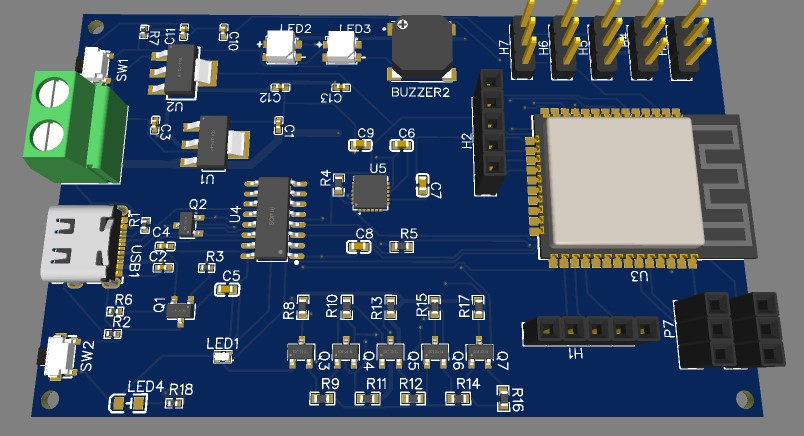
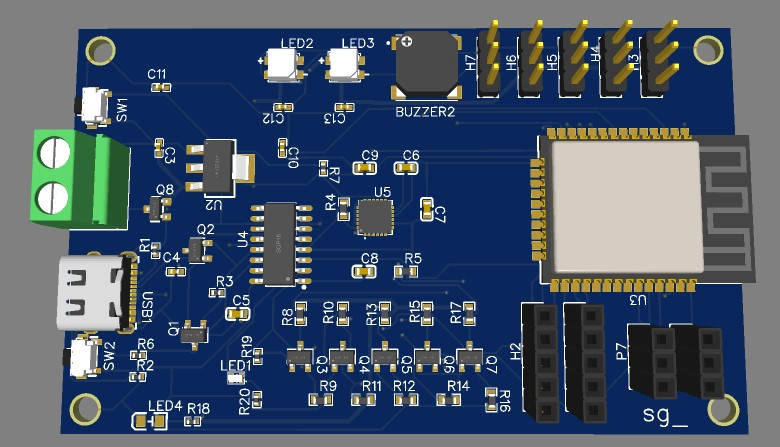
f(revisions) add images

diff --git a/README.md b/README.md
@@ -1,2 +1,4 @@
-## PCB 3D View
+## PCB 3D View Front
 ![](https://raw.githubusercontent.com/nakujaproject/flight-control-computer/main/3dview.JPG)
+## PCB 3D View Back
+![](https://raw.githubusercontent.com/nakujaproject/flight-control-computer/main/3dviewBack.JPG)
